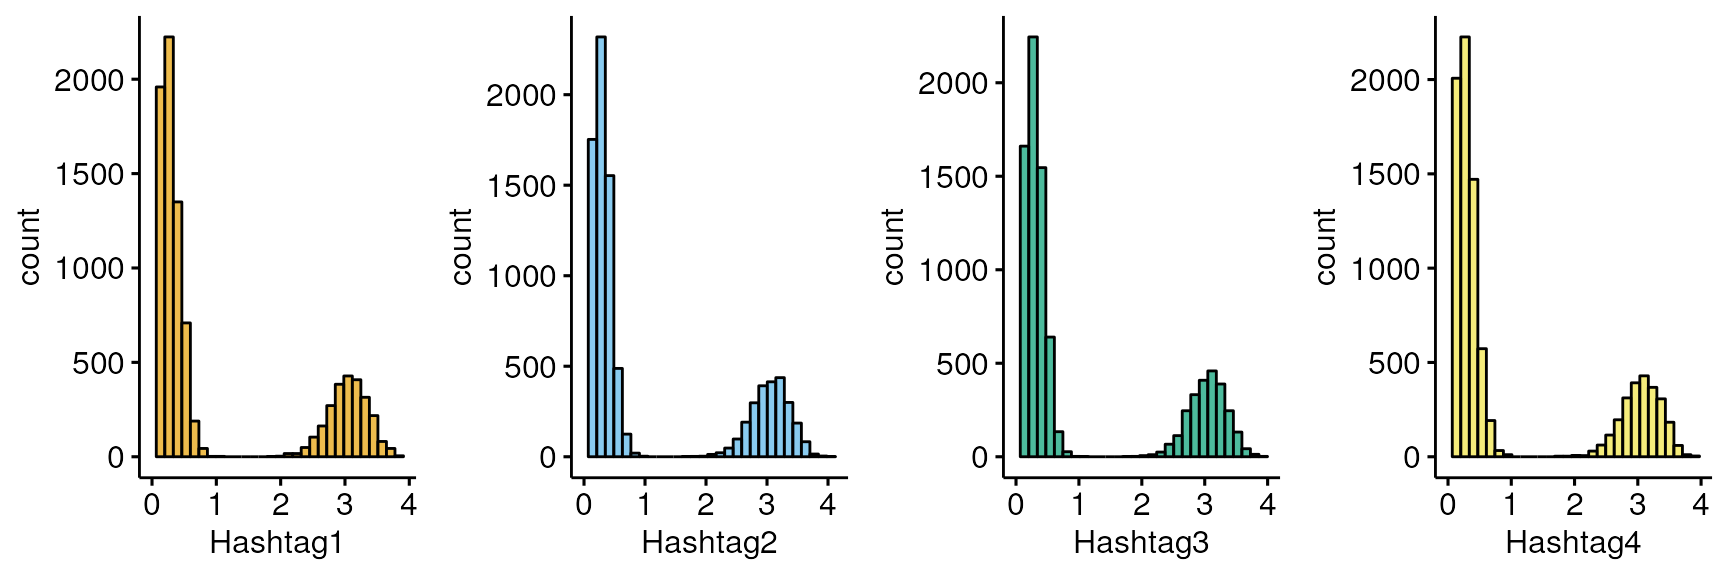
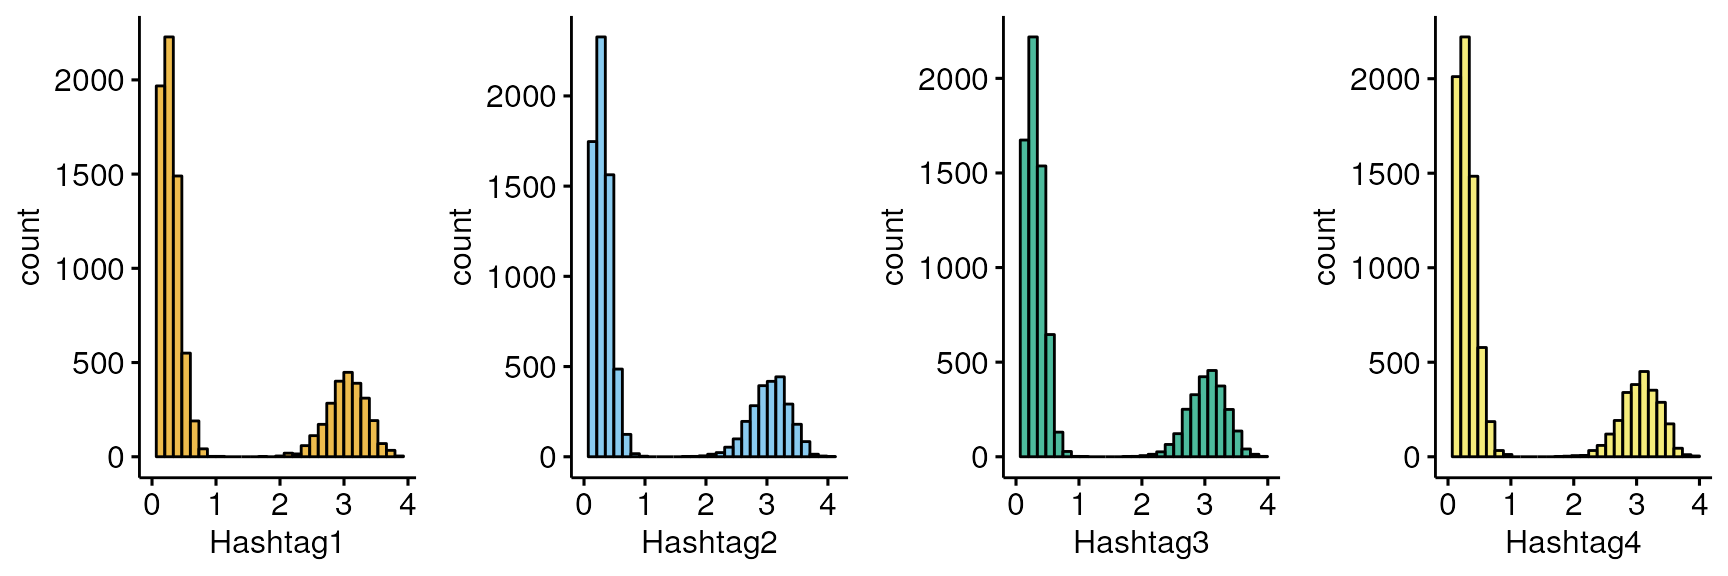
Deploying to gh-pages from @ michaelplynch/demultiplexing-bioc23@0403a34a36a264d1c8d04a40ef5d2d0247e33631 🚀

diff --git a/articles/b-hashing-benchmarking.html b/articles/b-hashing-benchmarking.html
@@ -86,7 +86,7 @@ algorithms</h1>
                         <h4 data-toc-skip class="author">Michael
 Lynch</h4>
             
-            <h4 data-toc-skip class="date">2023-07-21</h4>
+            <h4 data-toc-skip class="date">2023-07-30</h4>
       
       <small class="dont-index">Source: <a href="https://github.com/michaelplynch/demultiplexing-bioc23/blob/HEAD/vignettes/b-hashing-benchmarking.Rmd" class="external-link"><code>vignettes/b-hashing-benchmarking.Rmd</code></a></small>
       <div class="hidden name"><code>b-hashing-benchmarking.Rmd</code></div>
@@ -159,7 +159,7 @@ associated with poor hashing quality.</p>
 <h3 id="high-quality-hashing">High quality hashing<a class="anchor" aria-label="anchor" href="#high-quality-hashing"></a>
 </h3>
 <div class="sourceCode" id="cb5"><pre class="downlit sourceCode r">
-<code class="sourceCode R"><span></span>
+<code class="sourceCode R"><span><span class="fu"><a href="https://rdrr.io/r/base/Random.html" class="external-link">set.seed</a></span><span class="op">(</span><span class="fl">1</span><span class="op">)</span></span>
 <span><span class="va">mu1</span><span class="op">&lt;-</span><span class="fl">600</span></span>
 <span></span>
 <span><span class="va">mat</span><span class="op">&lt;-</span><span class="fu"><a href="../reference/logimat.html">logimat</a></span><span class="op">(</span>ngroups<span class="op">=</span><span class="fl">4</span>,nsinglet<span class="op">=</span><span class="fu"><a href="https://rdrr.io/r/base/c.html" class="external-link">c</a></span><span class="op">(</span><span class="fl">2000</span>,<span class="fl">2000</span>,<span class="fl">2000</span>,<span class="fl">2000</span><span class="op">)</span>,ndoub<span class="op">=</span><span class="fl">1000</span>,nneg<span class="op">=</span><span class="fl">200</span><span class="op">)</span></span>
@@ -222,7 +222,7 @@ associated with poor hashing quality.</p>
 <p><img src="b-hashing-benchmarking_files/figure-html/unnamed-chunk-5-1.png" width="720">
 ## Poor quality hashing</p>
 <div class="sourceCode" id="cb7"><pre class="downlit sourceCode r">
-<code class="sourceCode R"><span></span>
+<code class="sourceCode R"><span><span class="fu"><a href="https://rdrr.io/r/base/Random.html" class="external-link">set.seed</a></span><span class="op">(</span><span class="fl">1</span><span class="op">)</span></span>
 <span><span class="va">mu1</span><span class="op">&lt;-</span><span class="fl">400</span></span>
 <span><span class="va">mu2</span><span class="op">&lt;-</span><span class="fl">20</span></span>
 <span><span class="va">mat</span><span class="op">&lt;-</span><span class="fu"><a href="../reference/logimat.html">logimat</a></span><span class="op">(</span>ngroups<span class="op">=</span><span class="fl">4</span>,nsinglet<span class="op">=</span><span class="fu"><a href="https://rdrr.io/r/base/c.html" class="external-link">c</a></span><span class="op">(</span><span class="fl">2000</span>,<span class="fl">1000</span>,<span class="fl">3200</span>,<span class="fl">150</span><span class="op">)</span>,ndoub<span class="op">=</span><span class="fl">1000</span>,nneg<span class="op">=</span><span class="fl">200</span><span class="op">)</span></span>
@@ -272,17 +272,17 @@ associated with poor hashing quality.</p>
 <span><span class="va">df</span><span class="op">&lt;-</span><span class="fu"><a href="https://rdrr.io/r/base/data.frame.html" class="external-link">data.frame</a></span><span class="op">(</span>true<span class="op">=</span><span class="va">seurat</span><span class="op">$</span><span class="va">hashtag</span>,pred<span class="op">=</span><span class="va">seurat</span><span class="op">$</span><span class="va">hash.ID</span><span class="op">)</span></span>
 <span><span class="va">df</span><span class="op">$</span><span class="va">true</span><span class="op">&lt;-</span><span class="fu"><a href="https://rdrr.io/r/base/factor.html" class="external-link">factor</a></span><span class="op">(</span><span class="va">df</span><span class="op">$</span><span class="va">true</span>,levels<span class="op">=</span><span class="fu"><a href="https://rdrr.io/r/base/c.html" class="external-link">c</a></span><span class="op">(</span><span class="st">"Hashtag1"</span>,<span class="st">"Hashtag2"</span>,<span class="st">"Hashtag3"</span>,<span class="st">"Hashtag4"</span>,<span class="st">"Negative"</span>,<span class="st">"Doublet"</span><span class="op">)</span><span class="op">)</span></span>
 <span><span class="va">df</span><span class="op">$</span><span class="va">pred</span><span class="op">&lt;-</span><span class="fu"><a href="https://rdrr.io/r/base/factor.html" class="external-link">factor</a></span><span class="op">(</span><span class="va">df</span><span class="op">$</span><span class="va">pred</span>,levels<span class="op">=</span><span class="fu"><a href="https://rdrr.io/r/base/c.html" class="external-link">c</a></span><span class="op">(</span><span class="st">"Hashtag1"</span>,<span class="st">"Hashtag2"</span>,<span class="st">"Hashtag3"</span>,<span class="st">"Hashtag4"</span>,<span class="st">"Negative"</span>,<span class="st">"Doublet"</span><span class="op">)</span><span class="op">)</span></span>
-<span><span class="fu"><a href="https://ggplot2.tidyverse.org/reference/ggplot.html" class="external-link">ggplot</a></span><span class="op">(</span><span class="va">df</span>, <span class="fu"><a href="https://ggplot2.tidyverse.org/reference/aes.html" class="external-link">aes</a></span><span class="op">(</span>fill<span class="op">=</span><span class="va">pred</span>,x<span class="op">=</span><span class="va">true</span><span class="op">)</span><span class="op">)</span><span class="op">+</span><span class="fu"><a href="https://ggplot2.tidyverse.org/reference/geom_bar.html" class="external-link">geom_bar</a></span><span class="op">(</span>position<span class="op">=</span><span class="st">"fill"</span><span class="op">)</span> <span class="op">+</span> <span class="fu"><a href="https://ggplot2.tidyverse.org/reference/scale_manual.html" class="external-link">scale_fill_manual</a></span><span class="op">(</span>values<span class="op">=</span><span class="fu"><a href="https://rdrr.io/pkg/dittoSeq/man/dittoColors.html" class="external-link">dittoColors</a></span><span class="op">(</span><span class="op">)</span><span class="op">)</span></span></code></pre></div>
+<span></span>
+<span><span class="va">count</span><span class="op">&lt;-</span><span class="fu"><a href="https://ggplot2.tidyverse.org/reference/ggplot.html" class="external-link">ggplot</a></span><span class="op">(</span><span class="va">df</span>, <span class="fu"><a href="https://ggplot2.tidyverse.org/reference/aes.html" class="external-link">aes</a></span><span class="op">(</span>fill<span class="op">=</span><span class="va">true</span>,x<span class="op">=</span><span class="va">pred</span><span class="op">)</span><span class="op">)</span><span class="op">+</span><span class="fu"><a href="https://ggplot2.tidyverse.org/reference/geom_bar.html" class="external-link">geom_bar</a></span><span class="op">(</span><span class="op">)</span> <span class="op">+</span> <span class="fu"><a href="https://ggplot2.tidyverse.org/reference/scale_manual.html" class="external-link">scale_fill_manual</a></span><span class="op">(</span>values<span class="op">=</span><span class="fu"><a href="https://rdrr.io/pkg/dittoSeq/man/dittoColors.html" class="external-link">dittoColors</a></span><span class="op">(</span><span class="op">)</span><span class="op">)</span></span>
+<span><span class="va">prop</span><span class="op">&lt;-</span><span class="fu"><a href="https://ggplot2.tidyverse.org/reference/ggplot.html" class="external-link">ggplot</a></span><span class="op">(</span><span class="va">df</span>, <span class="fu"><a href="https://ggplot2.tidyverse.org/reference/aes.html" class="external-link">aes</a></span><span class="op">(</span>fill<span class="op">=</span><span class="va">true</span>,x<span class="op">=</span><span class="va">pred</span><span class="op">)</span><span class="op">)</span><span class="op">+</span><span class="fu"><a href="https://ggplot2.tidyverse.org/reference/geom_bar.html" class="external-link">geom_bar</a></span><span class="op">(</span>position<span class="op">=</span><span class="st">"fill"</span><span class="op">)</span> <span class="op">+</span> <span class="fu"><a href="https://ggplot2.tidyverse.org/reference/scale_manual.html" class="external-link">scale_fill_manual</a></span><span class="op">(</span>values<span class="op">=</span><span class="fu"><a href="https://rdrr.io/pkg/dittoSeq/man/dittoColors.html" class="external-link">dittoColors</a></span><span class="op">(</span><span class="op">)</span><span class="op">)</span> <span class="op">+</span><span class="fu"><a href="https://ggplot2.tidyverse.org/reference/labs.html" class="external-link">ylab</a></span><span class="op">(</span><span class="st">"proportion"</span><span class="op">)</span></span>
+<span><span class="va">count</span><span class="op">+</span><span class="va">prop</span></span></code></pre></div>
 <p><img src="b-hashing-benchmarking_files/figure-html/unnamed-chunk-8-1.png" width="720"></p>
-<div class="sourceCode" id="cb10"><pre class="downlit sourceCode r">
-<code class="sourceCode R"><span><span class="fu"><a href="https://ggplot2.tidyverse.org/reference/ggplot.html" class="external-link">ggplot</a></span><span class="op">(</span><span class="va">df</span>, <span class="fu"><a href="https://ggplot2.tidyverse.org/reference/aes.html" class="external-link">aes</a></span><span class="op">(</span>fill<span class="op">=</span><span class="va">true</span>,x<span class="op">=</span><span class="va">pred</span><span class="op">)</span><span class="op">)</span><span class="op">+</span><span class="fu"><a href="https://ggplot2.tidyverse.org/reference/geom_bar.html" class="external-link">geom_bar</a></span><span class="op">(</span>position<span class="op">=</span><span class="st">"fill"</span><span class="op">)</span> <span class="op">+</span> <span class="fu"><a href="https://ggplot2.tidyverse.org/reference/scale_manual.html" class="external-link">scale_fill_manual</a></span><span class="op">(</span>values<span class="op">=</span><span class="fu"><a href="https://rdrr.io/pkg/dittoSeq/man/dittoColors.html" class="external-link">dittoColors</a></span><span class="op">(</span><span class="op">)</span><span class="op">)</span></span></code></pre></div>
-<p><img src="b-hashing-benchmarking_files/figure-html/unnamed-chunk-8-2.png" width="720"></p>
 </div>
 </div>
 <div class="section level2">
 <h2 id="session-info">Session Info<a class="anchor" aria-label="anchor" href="#session-info"></a>
 </h2>
-<div class="sourceCode" id="cb11"><pre class="downlit sourceCode r">
+<div class="sourceCode" id="cb10"><pre class="downlit sourceCode r">
 <code class="sourceCode R"><span><span class="fu"><a href="https://rdrr.io/r/utils/sessionInfo.html" class="external-link">sessionInfo</a></span><span class="op">(</span><span class="op">)</span></span>
 <span><span class="co">#&gt; R version 4.3.1 (2023-06-16)</span></span>
 <span><span class="co">#&gt; Platform: x86_64-pc-linux-gnu (64-bit)</span></span>
@@ -336,7 +336,7 @@ associated with poor hashing quality.</p>
 <span><span class="co">#&gt;  [37] listenv_0.9.0           spatstat.utils_3.0-3    pheatmap_1.0.12        </span></span>
 <span><span class="co">#&gt;  [40] goftest_1.2-3           spatstat.random_3.1-5   fitdistrplus_1.1-11    </span></span>
 <span><span class="co">#&gt;  [43] parallelly_1.36.0       pkgdown_2.0.7           leiden_0.4.3           </span></span>
-<span><span class="co">#&gt;  [46] codetools_0.2-19        DelayedArray_0.26.6     tidyselect_1.2.0       </span></span>
+<span><span class="co">#&gt;  [46] codetools_0.2-19        DelayedArray_0.26.7     tidyselect_1.2.0       </span></span>
 <span><span class="co">#&gt;  [49] shape_1.4.6             farver_2.1.1            rmdformats_1.0.4       </span></span>
 <span><span class="co">#&gt;  [52] spatstat.explore_3.2-1  jsonlite_1.8.7          GetoptLong_1.0.5       </span></span>
 <span><span class="co">#&gt;  [55] ellipsis_0.3.2          progressr_0.13.0        ggridges_0.5.4         </span></span>
@@ -350,7 +350,7 @@ associated with poor hashing quality.</p>
 <span><span class="co">#&gt;  [79] tensor_1.5              spatstat.data_3.0-1     ggsci_3.0.0            </span></span>
 <span><span class="co">#&gt;  [82] utf8_1.2.3              tidyr_1.3.0             generics_0.1.3         </span></span>
 <span><span class="co">#&gt;  [85] data.table_1.14.8       httr_1.4.6              htmlwidgets_1.6.2      </span></span>
-<span><span class="co">#&gt;  [88] S4Arrays_1.0.4          uwot_0.1.16             pkgconfig_2.0.3        </span></span>
+<span><span class="co">#&gt;  [88] S4Arrays_1.0.5          uwot_0.1.16             pkgconfig_2.0.3        </span></span>
 <span><span class="co">#&gt;  [91] gtable_0.3.3            lmtest_0.9-40           XVector_0.40.0         </span></span>
 <span><span class="co">#&gt;  [94] htmltools_0.5.5         carData_3.0-5           bookdown_0.34          </span></span>
 <span><span class="co">#&gt;  [97] clue_0.3-64             png_0.1-8               knitr_1.43             </span></span>
@@ -367,7 +367,7 @@ associated with poor hashing quality.</p>
 <span><span class="co">#&gt; [130] deldir_1.0-9            munsell_0.5.0           lazyeval_0.2.2         </span></span>
 <span><span class="co">#&gt; [133] spatstat.geom_3.2-4     Matrix_1.6-0            patchwork_1.1.2        </span></span>
 <span><span class="co">#&gt; [136] future_1.33.0           shiny_1.7.4.1           highr_0.10             </span></span>
-<span><span class="co">#&gt; [139] ROCR_1.0-11             igraph_1.5.0            broom_1.0.5            </span></span>
+<span><span class="co">#&gt; [139] ROCR_1.0-11             igraph_1.5.0.1          broom_1.0.5            </span></span>
 <span><span class="co">#&gt; [142] memoise_2.0.1           bslib_0.5.0</span></span></code></pre></div>
 </div>
 <div class="section level2">

diff --git a/articles/c-demuxSNP-package-demo.html b/articles/c-demuxSNP-package-demo.html
@@ -215,7 +215,7 @@ refer to relevant documentation.</p>
 <span><span class="fu"><a href="https://rdrr.io/r/base/table.html" class="external-link">table</a></span><span class="op">(</span><span class="va">small_sce</span><span class="op">$</span><span class="va">knn</span><span class="op">)</span></span>
 <span><span class="co">#&gt; </span></span>
 <span><span class="co">#&gt;  Doublet Hashtag1 Hashtag3 Hashtag4 Hashtag5 Hashtag6 </span></span>
-<span><span class="co">#&gt;       26       10       14        7       11       32</span></span></code></pre></div>
+<span><span class="co">#&gt;       21       10       17        7       13       32</span></span></code></pre></div>
 <div class="section level4">
 <h4 id="function-explanation">Function Explanation<a class="anchor" aria-label="anchor" href="#function-explanation"></a>
 </h4>
@@ -1091,17 +1091,17 @@ see that this most likely is a true Hashtag6.</p>
 <span><span class="co">#&gt;  [49] randomForest_4.7-1.1      GenomeInfoDbData_1.2.10  </span></span>
 <span><span class="co">#&gt;  [51] xtable_1.8-4              stringr_1.5.0            </span></span>
 <span><span class="co">#&gt;  [53] desc_1.4.2                doParallel_1.0.17        </span></span>
-<span><span class="co">#&gt;  [55] evaluate_0.21             S4Arrays_1.0.4           </span></span>
+<span><span class="co">#&gt;  [55] evaluate_0.21             S4Arrays_1.0.5           </span></span>
 <span><span class="co">#&gt;  [57] BiocFileCache_2.8.0       hms_1.1.3                </span></span>
 <span><span class="co">#&gt;  [59] bookdown_0.34             irlba_2.3.5.1            </span></span>
 <span><span class="co">#&gt;  [61] colorspace_2.1-0          filelock_1.0.2           </span></span>
 <span><span class="co">#&gt;  [63] ROCR_1.0-11               reticulate_1.30          </span></span>
 <span><span class="co">#&gt;  [65] spatstat.data_3.0-1       magrittr_2.0.3           </span></span>
 <span><span class="co">#&gt;  [67] lmtest_0.9-40             later_1.3.1              </span></span>
-<span><span class="co">#&gt;  [69] viridis_0.6.3             lattice_0.21-8           </span></span>
+<span><span class="co">#&gt;  [69] viridis_0.6.4             lattice_0.21-8           </span></span>
 <span><span class="co">#&gt;  [71] spatstat.geom_3.2-4       future.apply_1.11.0      </span></span>
-<span><span class="co">#&gt;  [73] robustbase_0.99-0         scuttle_1.10.1           </span></span>
-<span><span class="co">#&gt;  [75] scattermore_1.2           XML_3.99-0.14            </span></span>
+<span><span class="co">#&gt;  [73] robustbase_0.99-0         scattermore_1.2          </span></span>
+<span><span class="co">#&gt;  [75] XML_3.99-0.14             scuttle_1.10.1           </span></span>
 <span><span class="co">#&gt;  [77] cowplot_1.1.1             RcppAnnoy_0.0.21         </span></span>
 <span><span class="co">#&gt;  [79] class_7.3-22              pillar_1.9.0             </span></span>
 <span><span class="co">#&gt;  [81] nlme_3.1-162              iterators_1.0.14         </span></span>
@@ -1154,12 +1154,12 @@ see that this most likely is a true Hashtag6.</p>
 <span><span class="co">#&gt; [175] htmltools_0.5.5           sctransform_0.3.5        </span></span>
 <span><span class="co">#&gt; [177] rappdirs_0.3.3            glue_1.6.2               </span></span>
 <span><span class="co">#&gt; [179] RCurl_1.98-1.12           rprojroot_2.0.3          </span></span>
-<span><span class="co">#&gt; [181] scran_1.28.1              BSgenome_1.68.0          </span></span>
-<span><span class="co">#&gt; [183] gridExtra_2.3             igraph_1.5.0             </span></span>
+<span><span class="co">#&gt; [181] scran_1.28.2              BSgenome_1.68.0          </span></span>
+<span><span class="co">#&gt; [183] gridExtra_2.3             igraph_1.5.0.1           </span></span>
 <span><span class="co">#&gt; [185] R6_2.5.1                  tidyr_1.3.0              </span></span>
 <span><span class="co">#&gt; [187] labeling_0.4.2            cluster_2.1.4            </span></span>
 <span><span class="co">#&gt; [189] Rhdf5lib_1.22.0           compositions_2.0-6       </span></span>
-<span><span class="co">#&gt; [191] DelayedArray_0.26.6       tidyselect_1.2.0         </span></span>
+<span><span class="co">#&gt; [191] DelayedArray_0.26.7       tidyselect_1.2.0         </span></span>
 <span><span class="co">#&gt; [193] ProtGenerics_1.32.0       tensorA_0.36.2           </span></span>
 <span><span class="co">#&gt; [195] ggforce_0.4.1             xml2_1.3.5               </span></span>
 <span><span class="co">#&gt; [197] car_3.1-2                 future_1.33.0            </span></span>

diff --git a/articles/a-intro-to-demultiplexing.html b/articles/a-intro-to-demultiplexing.html
@@ -85,7 +85,7 @@
                         <h4 data-toc-skip class="author">Michael
 Lynch</h4>
             
-            <h4 data-toc-skip class="date">2023-07-21</h4>
+            <h4 data-toc-skip class="date">2023-07-30</h4>
       
       <small class="dont-index">Source: <a href="https://github.com/michaelplynch/demultiplexing-bioc23/blob/HEAD/vignettes/a-intro-to-demultiplexing.Rmd" class="external-link"><code>vignettes/a-intro-to-demultiplexing.Rmd</code></a></small>
       <div class="hidden name"><code>a-intro-to-demultiplexing.Rmd</code></div>
@@ -479,13 +479,13 @@ relation to our six samples.</p>
 <span><span class="co">##  [49] randomForest_4.7-1.1      GenomeInfoDbData_1.2.10  </span></span>
 <span><span class="co">##  [51] xtable_1.8-4              stringr_1.5.0            </span></span>
 <span><span class="co">##  [53] desc_1.4.2                doParallel_1.0.17        </span></span>
-<span><span class="co">##  [55] evaluate_0.21             S4Arrays_1.0.4           </span></span>
+<span><span class="co">##  [55] evaluate_0.21             S4Arrays_1.0.5           </span></span>
 <span><span class="co">##  [57] BiocFileCache_2.8.0       hms_1.1.3                </span></span>
 <span><span class="co">##  [59] irlba_2.3.5.1             colorspace_2.1-0         </span></span>
 <span><span class="co">##  [61] filelock_1.0.2            ROCR_1.0-11              </span></span>
 <span><span class="co">##  [63] reticulate_1.30           spatstat.data_3.0-1      </span></span>
 <span><span class="co">##  [65] magrittr_2.0.3            lmtest_0.9-40            </span></span>
-<span><span class="co">##  [67] later_1.3.1               viridis_0.6.3            </span></span>
+<span><span class="co">##  [67] later_1.3.1               viridis_0.6.4            </span></span>
 <span><span class="co">##  [69] lattice_0.21-8            spatstat.geom_3.2-4      </span></span>
 <span><span class="co">##  [71] future.apply_1.11.0       robustbase_0.99-0        </span></span>
 <span><span class="co">##  [73] scattermore_1.2           XML_3.99-0.14            </span></span>
@@ -539,11 +539,11 @@ relation to our six samples.</p>
 <span><span class="co">## [169] htmltools_0.5.5           sctransform_0.3.5        </span></span>
 <span><span class="co">## [171] rappdirs_0.3.3            glue_1.6.2               </span></span>
 <span><span class="co">## [173] RCurl_1.98-1.12           rprojroot_2.0.3          </span></span>
-<span><span class="co">## [175] scran_1.28.1              BSgenome_1.68.0          </span></span>
-<span><span class="co">## [177] igraph_1.5.0              R6_2.5.1                 </span></span>
+<span><span class="co">## [175] scran_1.28.2              BSgenome_1.68.0          </span></span>
+<span><span class="co">## [177] igraph_1.5.0.1            R6_2.5.1                 </span></span>
 <span><span class="co">## [179] tidyr_1.3.0               labeling_0.4.2           </span></span>
 <span><span class="co">## [181] cluster_2.1.4             Rhdf5lib_1.22.0          </span></span>
-<span><span class="co">## [183] compositions_2.0-6        DelayedArray_0.26.6      </span></span>
+<span><span class="co">## [183] compositions_2.0-6        DelayedArray_0.26.7      </span></span>
 <span><span class="co">## [185] tidyselect_1.2.0          vipor_0.4.5              </span></span>
 <span><span class="co">## [187] ProtGenerics_1.32.0       tensorA_0.36.2           </span></span>
 <span><span class="co">## [189] ggforce_0.4.1             xml2_1.3.5               </span></span>
